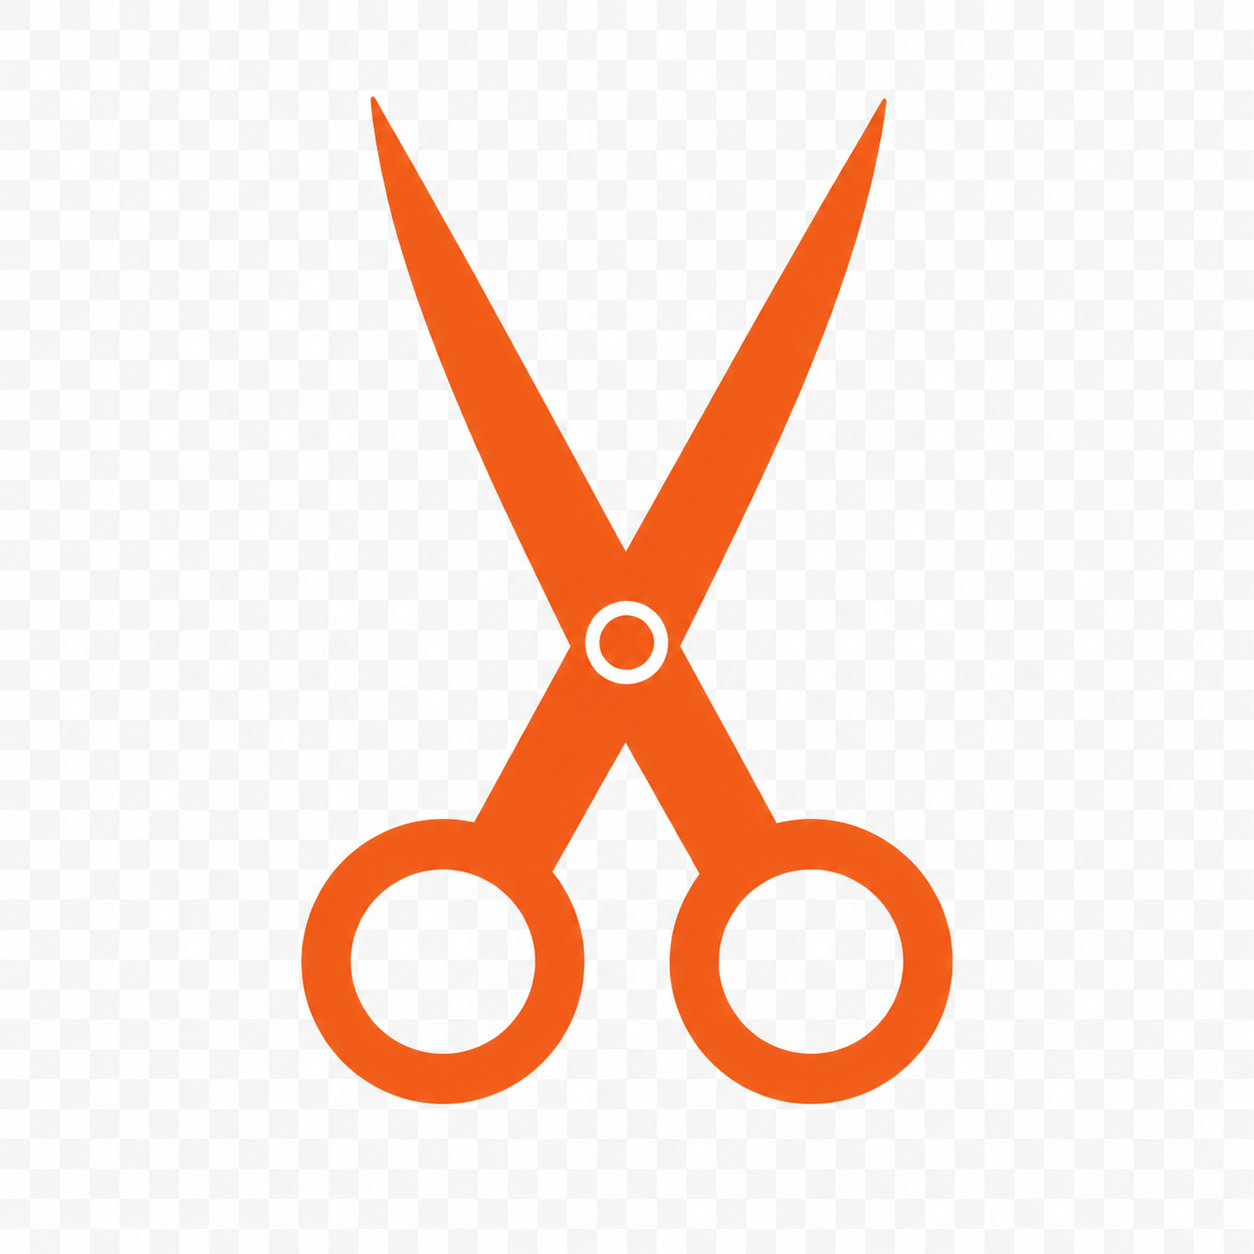
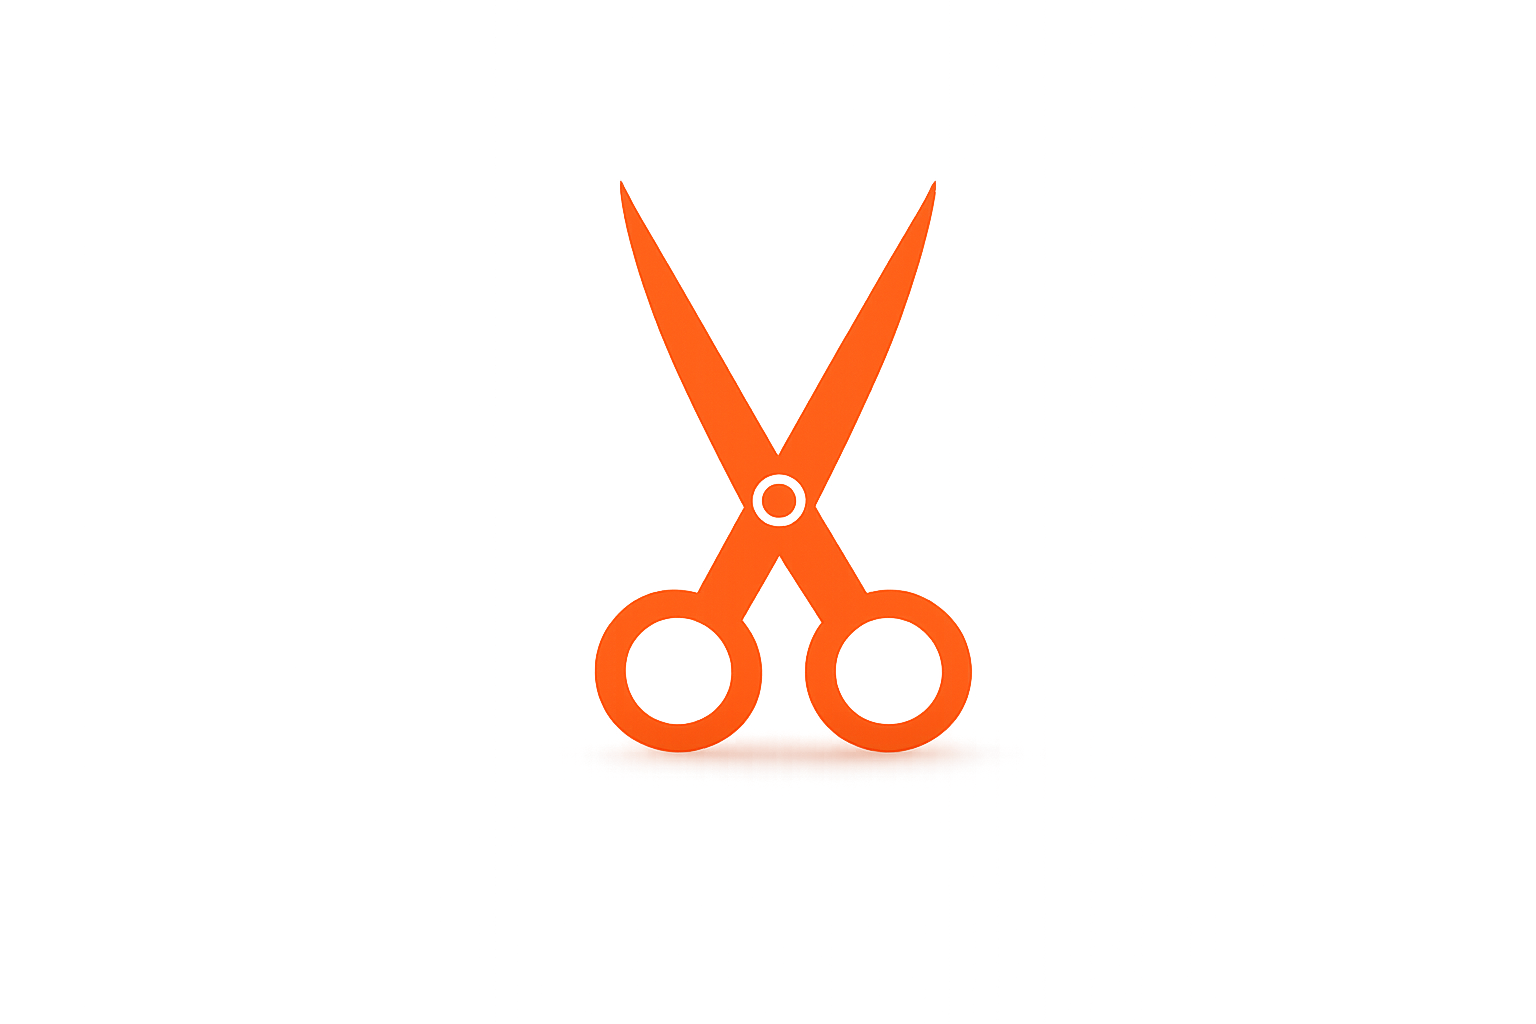
Added CSS properties

Changed region(s): [[0.2177, 0.0625, 0.7775, 0.9062]]

diff --git a/style.css b/style.css
@@ -1,16 +1,26 @@
-body{
+body {
     background: #060B1A;
+    color: white;
+    display: flex;
+    flex-direction: column;
+    align-items: center;
+    justify-content: center;
+    box-sizing: border-box;
+
+    font-family: "Bebas Neue", sans-serif;
+    letter-spacing: 1px;
+    margin-top: -10px;
 }
-h1{
-   font-size: 4rem;
+
+h3 {
+    font-size: 2rem;
     font-weight: 800;
 
-    background: linear-gradient(
-        90deg,
-        #4FC3F7,
-        #C95CFF,
-        #FFD166
-    ); /*This gives the backgroun color not text color*/
+    background: linear-gradient(90deg,
+            #4FC3F7,
+            #C95CFF,
+            #FFD166);
+    /*This gives the backgroun color not text color*/
 
     -webkit-background-clip: text;
     background-clip: text;
@@ -20,8 +30,168 @@ h1{
     /*Now we make the color transparent but since we clipped the bg we will se the 
     text coloured like bg*/
 }
-img{
-    width: 100px;
-    height: 100px;
+
+
+
+#vsImg {
+    display: block;
+    margin: 0;
+}
+
+/*VS COntainer*/
+#vsContainer {
+    border-radius: 20px;
+    padding: 20px;
+    height: 300px;
+    max-width: fit-content;
+    min-width: 80%;
+    background:#11182C;
+
+    border: 2px solid #21242c;
+    display: flex;
+    justify-content: center;
+    align-items: center;
+}
+
+.vsCont {
+    width: 200px;
+    height: 200px;
+    margin: 0;
+}
+
+#vsImg {
+    border: none;
+    width: 400px;
+    margin-bottom: -30px;
+}
+
+#youImg {
+    border: #4FC3F7 solid;
     border-radius: 50%;
+}
+
+#compImg {
+    border: #f7814f solid;
+    border-radius: 50%;
+}
+
+#youText,
+#computerText {
+    border-radius: 10px;
+    padding: 5px;
+}
+
+#youText {
+    border: #4fc2f723 solid;
+}
+
+#computerText {
+    border: #f7814f23 solid;
+}
+
+#resultContainer {
+    background:
+        linear-gradient(#11182C, #11182C) padding-box,
+        linear-gradient(90deg, #4FC3F7, #C95CFF, #FFD166) border-box;
+    border: 2px solid transparent;
+    border-radius: 20px;
+    padding: 10px;
+    width: 150px;
+}
+
+div {
+    display: flex;
+    align-items: center;
+    justify-content: center;
+    box-sizing: border-box;
+}
+
+.player {
+    display: flex;
+    flex-direction: column;
+    align-items: center;
+    justify-content: center;
+}
+
+.vs {
+    display: flex;
+    flex-direction: column;
+    align-items: center;
+    justify-content: center;
+}
+
+/*Bottom Container */
+
+
+#bottomContainer {
+    display: flex;
+    align-items: center;
+    justify-content: center;
+    gap: 20px;
+    margin: 20px;
+    width: 100%;
+}
+
+
+#scoreContainer {
+    border: solid #21242c;
+    border-radius: 20px;
+    padding: 20px;
+    background: #11182C;
+    height: 230px;
+    flex: 1;
+}
+
+
+
+#moveContainer {
+    border: solid #21242c;
+    border-radius: 20px;
+    padding: 20px;
+    background: #11182C;
+    height: 230px;
+    flex: 1.8;
+    display: flex;
+    flex-direction: column;
+    grid: 20px;
+
+}
+
+#moveImg {
+    display: flex;
+    gap: 30px;
+}
+
+#moveTxtCont {
+    display: flex;
+    flex-direction: column;
+    justify-content: center;
+    align-items: center;
+
+}
+
+.moveCont {
+    height: 100px;
+    width: 100px;
+    border: #4FC3F7 solid;
+    border-radius: 50%;
+}
+
+#historyContainer {
+    border: solid #21242c;
+    border-radius: 20px;
+    padding: 20px;
+    background: #11182C;
+    height: 230px;
+    flex: 1.2;
+}
+
+#resetBtn {
+    background: rgb(0, 166, 255);
+    border: none;
+    border-radius: 10px;
+    font-size: 1.5rem;
+    font-weight: bold;
+    color: white;
+    padding: 10px;
 }

diff --git a/index.html b/index.html
@@ -1,28 +1,64 @@
 <!DOCTYPE html>
 <html>
-    <head>
-        <meta http-equiv="Content-Type" content="text/html;charset=UTF-8">
-        <link rel="stylesheet" href="style.css">
-        <title>Rock Paper Scissors</title>
-    </head>
-    <body>
-        <h1>ROCK PAPER SCISSORS</h1>
-        <hr>
-        <div id="vsContainer">
 
-            <img src="" alt="" id="yourImg">
-            <img src="" alt="" id="vsImg">
-            <img src="" alt="" id="compImg">
+<head>
+    <meta http-equiv="Content-Type" content="text/html;charset=UTF-8">
+    <link rel="stylesheet" href="style.css">
+    <title>Rock Paper Scissors</title>
+</head>
+
+<body>
+    <h3>ROCK PAPER SCISSORS</h3>
+    <!--vsContainer-->
+    <div id="vsContainer">
+        <div class="player">
+            <p id="youText">YOU</p>
+            <img src="images/rock.png" alt="Rock" id="youImg" class="vsCont">
         </div>
+
+        <div class="vs">
+            <img src="images/versus.png" alt="VS" id="vsImg" class="vsCont">
+            <div id="resultContainer">
+                <p id="result">Result</p>
+            </div>
+        </div>
+
+        <div class="player">
+            <p id="computerText">COMPUTER</p>
+            <img src="images/paper.png" alt="Paper" id="compImg" class="vsCont">
+        </div>
+
+    </div>
+    <div id="bottomContainer">
+
+        <!--ScoreContainer-->
+
+
         <div id="scoreContainer">
+            <p id="scoreText">SCOREBOARD</p>
+
         </div>
-        <div id="scoreContainer"></div>
-        <div id="moveContainer"></div>
-        <img src="images/rock.png" alt="rock" id="yourImg">
-        <img src="images/paper.png" alt="paper" id="vsImg">
-        <img src="images/scissors.png" alt="scissors" id="compImg">
-        <div id="historyContainer"></div>
-        <button type="reset">RESET GAME</button>
-        <script src="script.js"></script>
-    </body>
+
+        <!--moveContainer-->
+
+        <div id="moveContainer">
+            <p>CHOOSE YOUR MOVE</p>
+            <div id="moveImg"><img src="images/rock.png" alt="rock" id="rockChoice" class="moveCont">
+                <img src="images/paper.png" alt="paper" id="paperChoice" class="moveCont">
+            <img src="images/scissors.png" alt="scissors" id="scissorsChoice" class="moveCont">
+            </div>
+        </div>
+
+
+        <!--historyContainer-->
+        <div id="historyContainer">
+
+            <p id="historyText">HISTORY</p>
+        </div>
+    </div>
+
+    <button type="reset" id="resetBtn">⟳ RESET GAME</button>
+    <script src="script.js"></script>
+</body>
+
 </html>